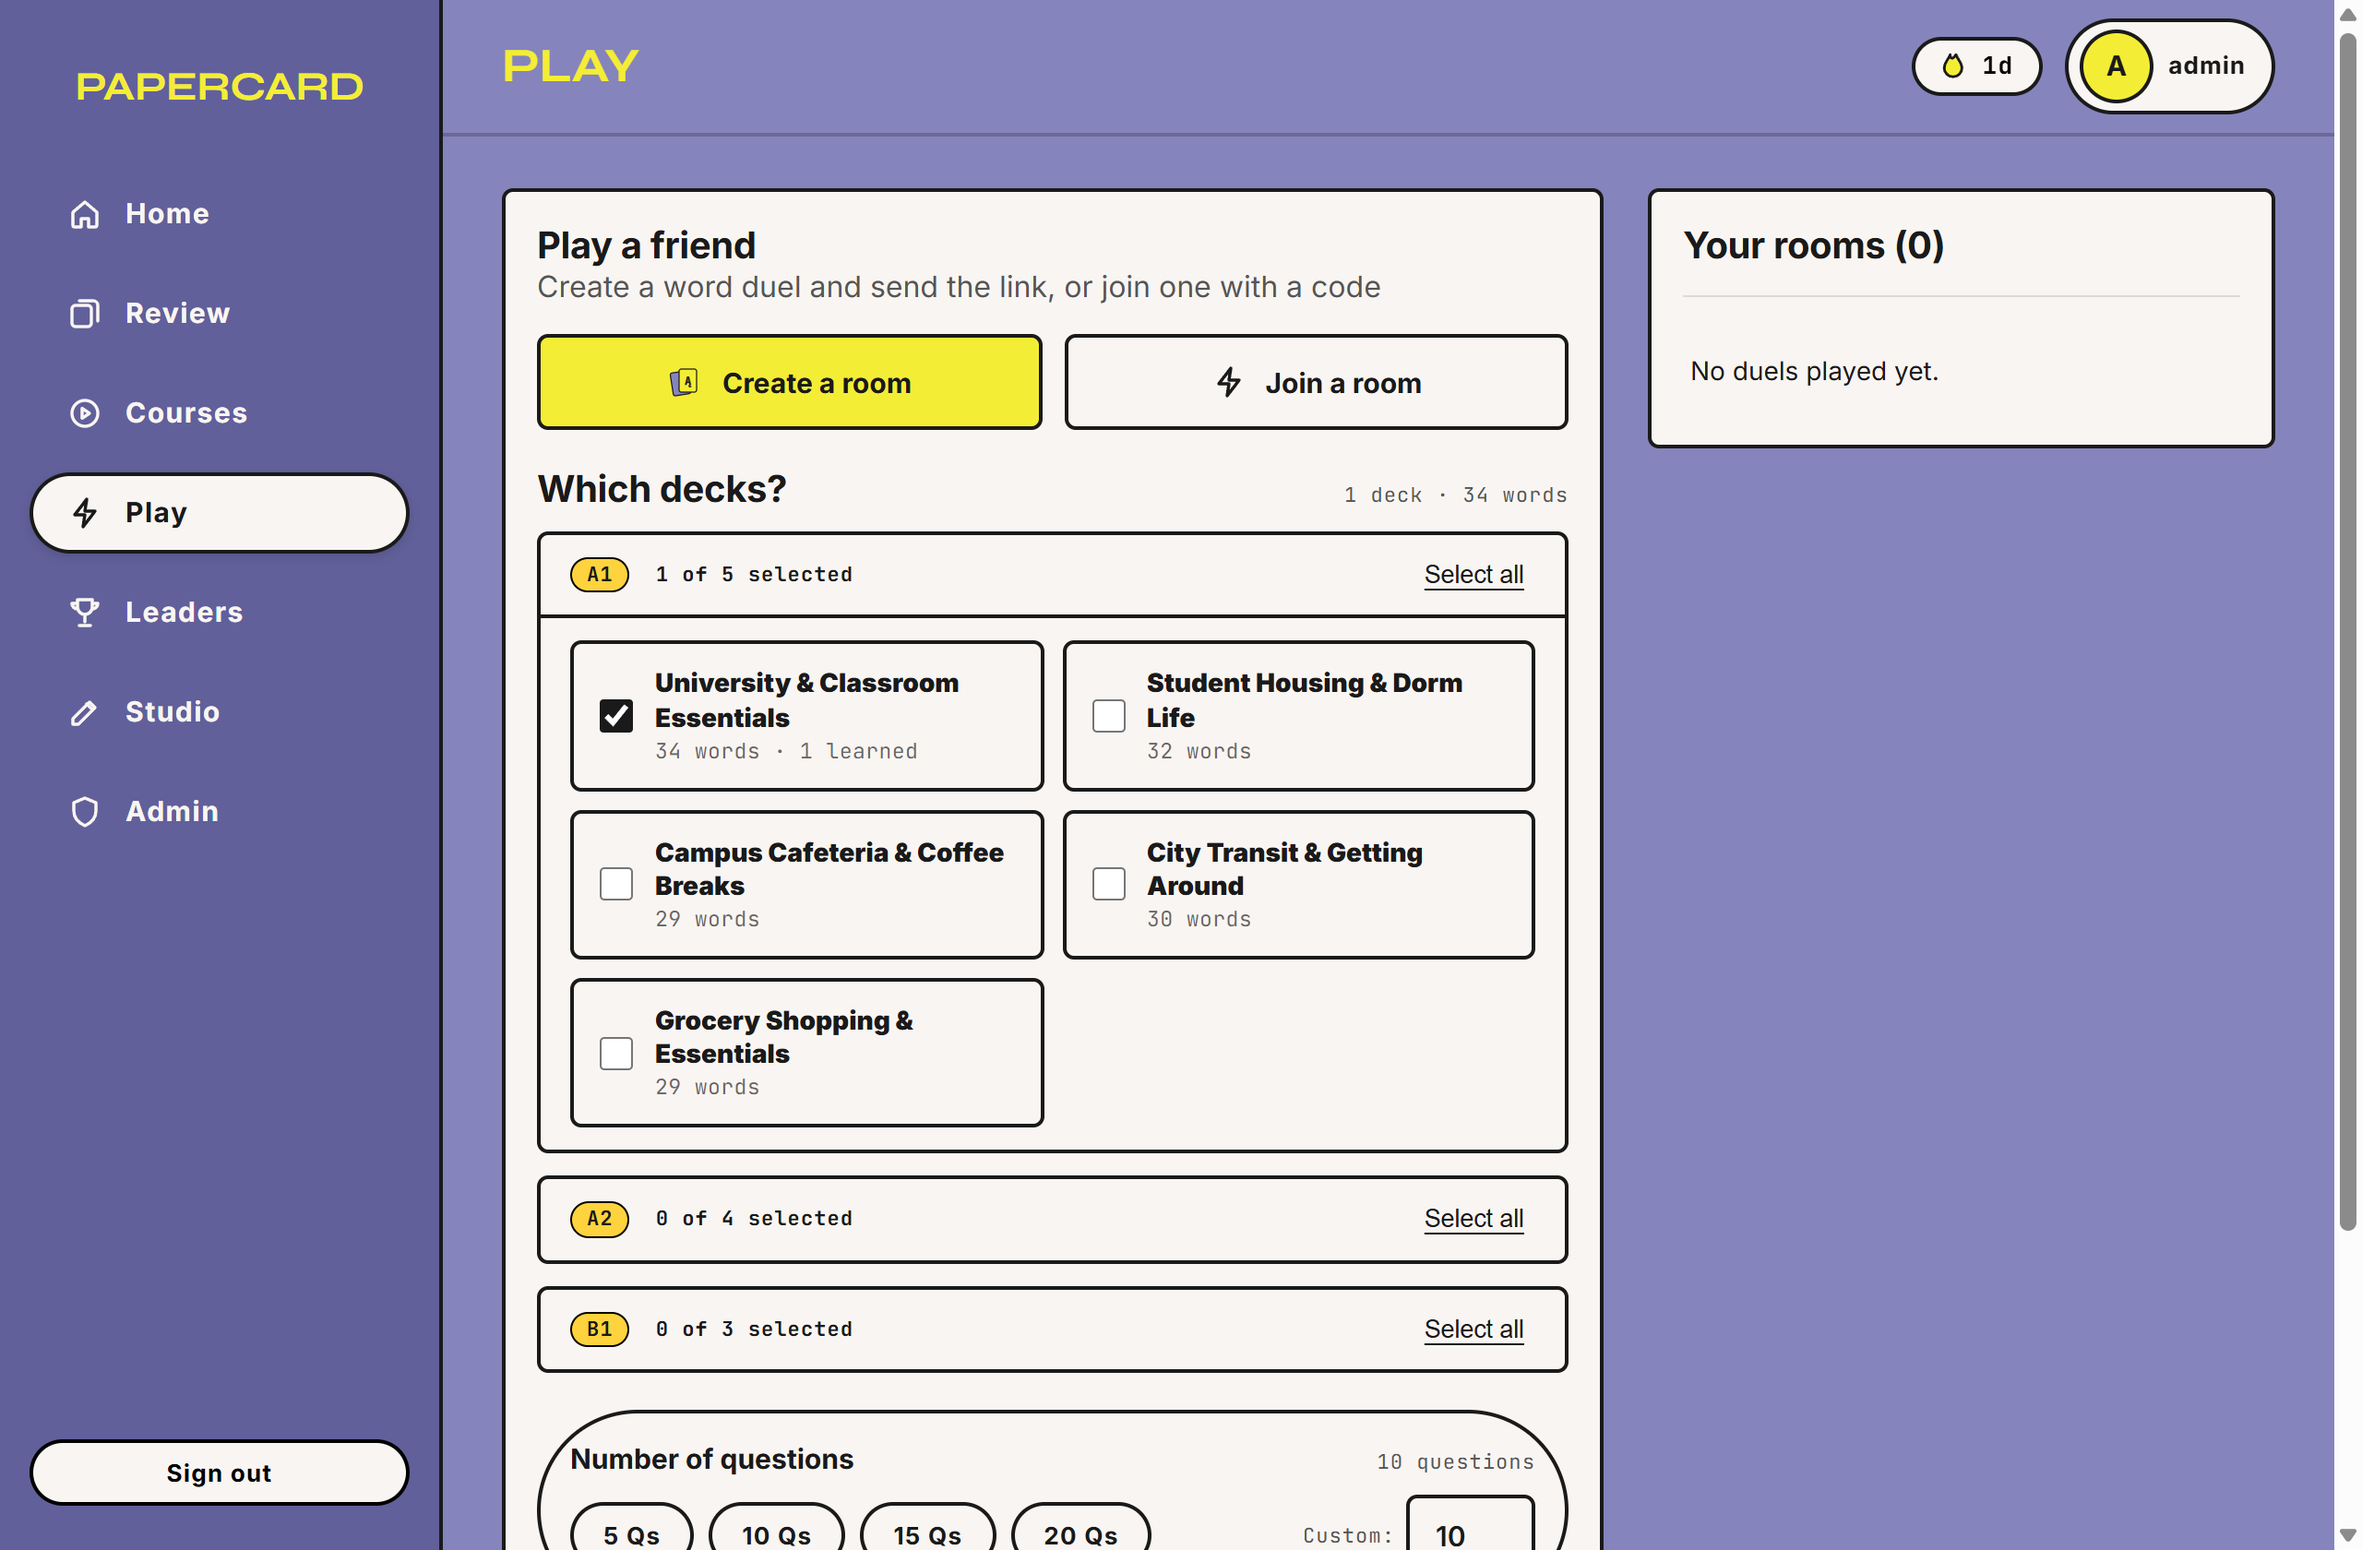
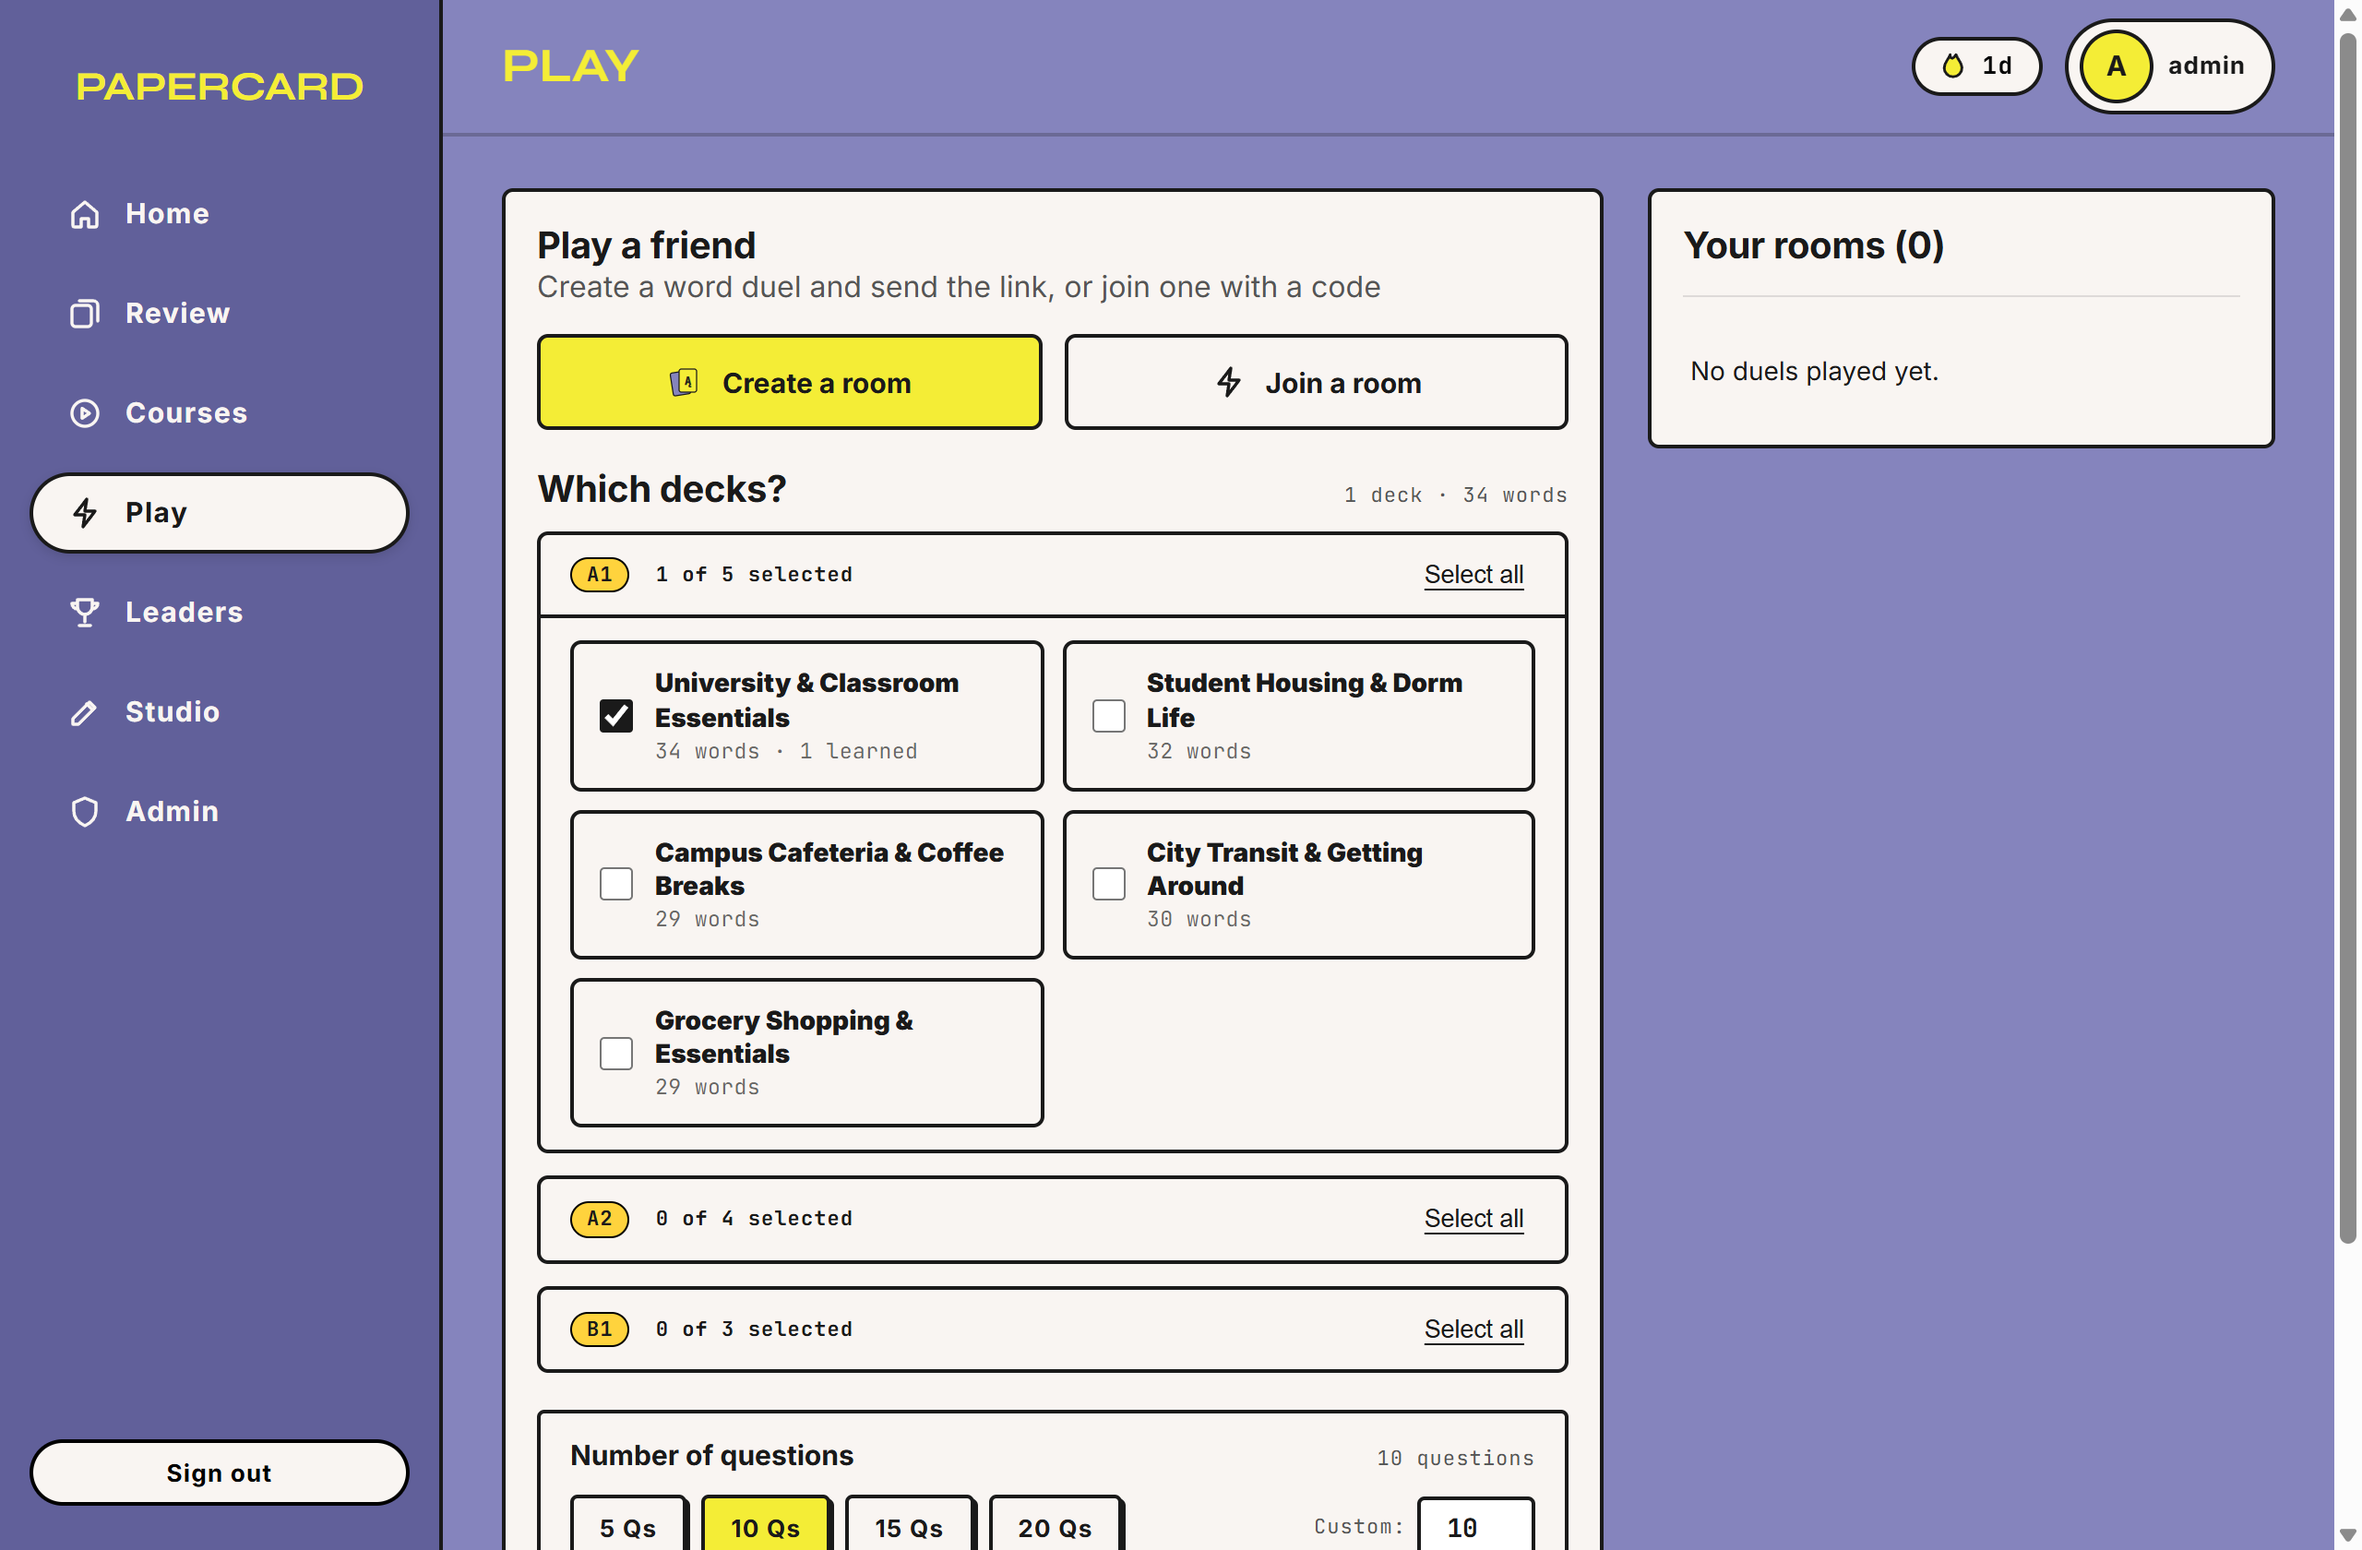
fix(play): change question count pill buttons to crisp tactile rectangles

Changed region(s): [[0.2188, 0.8976, 0.5, 1.0], [0.5625, 0.8976, 0.6562, 1.0], [0.6562, 0.9905, 0.6875, 1.0]]

diff --git a/frontend/src/routes/Play.svelte b/frontend/src/routes/Play.svelte
@@ -239,36 +239,37 @@
           <p id="create-error" class="error">{errorMsg}</p>
         {/if}
 
-        <div class="question-count-picker" style="margin:20px 0 14px;padding:16px;background:var(--color-bone-white);border:2px solid var(--color-ink-black);border-radius:var(--radius-buttons, 6px);">
-          <div class="row spread" style="align-items:baseline;margin-bottom:10px;">
-            <label for="q-count-input" style="font-weight:700;font-family:var(--font-degulardisplay-bold, sans-serif);font-size:15px;margin:0;">
+        <div class="question-count-picker">
+          <div class="q-count-head">
+            <label for="q-count-input" class="q-count-title">
               Number of questions
             </label>
             <span class="muted small mono-tag" id="q-count-tag">
               {questionCount} questions
             </span>
           </div>
-          <div class="row" style="gap:8px;flex-wrap:wrap;align-items:center;">
-            {#each [5, 10, 15, 20] as cnt}
-              <button
-                type="button"
-                class="btn btn-outlined-display small"
-                class:active-count={questionCount === cnt}
-                style="min-width:54px;font-weight:700;{questionCount === cnt ? 'background:var(--color-hi-vis-yellow, #f4ed36);color:#000;border-color:#000;' : ''}"
-                onclick={() => questionCount = cnt}
-              >
-                {cnt} Qs
-              </button>
-            {/each}
-            <div class="row" style="align-items:center;gap:6px;margin-left:auto;">
+          <div class="q-count-body">
+            <div class="q-presets">
+              {#each [5, 10, 15, 20] as cnt}
+                <button
+                  type="button"
+                  class="btn btn-outlined-display small count-chip-btn"
+                  class:active-count={questionCount === cnt}
+                  onclick={() => questionCount = cnt}
+                >
+                  {cnt} Qs
+                </button>
+              {/each}
+            </div>
+            <div class="q-custom-wrap">
               <span class="muted small mono-tag">Custom:</span>
               <input
                 type="number"
                 id="q-count-input"
+                class="q-custom-input"
                 min="4"
                 max="50"
                 bind:value={questionCount}
-                style="width:70px;padding:6px 8px;font-family:var(--font-bergenmonoregular, monospace);font-weight:700;border:2px solid #000;border-radius:4px;background:#fff;"
               />
             </div>
           </div>
@@ -337,3 +338,132 @@
     </aside>
   </div>
 </div>
+
+<style>
+  .question-count-picker {
+    margin: 20px 0 16px;
+    padding: 14px 16px;
+    background: var(--color-bone-white);
+    border: 2px solid var(--color-ink-black);
+    border-radius: 4px;
+    box-sizing: border-box;
+    width: 100%;
+  }
+
+  .q-count-head {
+    display: flex;
+    justify-content: space-between;
+    align-items: baseline;
+    margin-bottom: 12px;
+    flex-wrap: wrap;
+    gap: 8px;
+  }
+
+  .q-count-title {
+    font-weight: 700;
+    font-family: var(--font-degulardisplay-bold, sans-serif);
+    font-size: 15px;
+    margin: 0;
+    color: var(--color-ink-black);
+  }
+
+  .q-count-body {
+    display: flex;
+    flex-wrap: wrap;
+    gap: 12px;
+    align-items: center;
+    justify-content: space-between;
+  }
+
+  .q-presets {
+    display: flex;
+    flex-wrap: wrap;
+    gap: 8px;
+    align-items: center;
+  }
+
+  .count-chip-btn {
+    min-width: 58px;
+    font-weight: 700;
+    padding: 6px 14px !important;
+    font-family: var(--font-degulardisplay-bold), var(--font-degularvariable), sans-serif !important;
+    border: 2px solid var(--color-ink-black) !important;
+    border-radius: 4px !important;
+    background: var(--color-bone-white) !important;
+    color: var(--color-ink-black) !important;
+    cursor: pointer;
+    box-shadow: 2px 2px 0px var(--color-ink-black) !important;
+    transition: background 0.15s ease, transform 0.1s ease, box-shadow 0.1s ease;
+  }
+
+  .count-chip-btn:hover {
+    background: #ffffff !important;
+    transform: translate(-1px, -1px);
+    box-shadow: 3px 3px 0px var(--color-ink-black) !important;
+  }
+
+  .count-chip-btn:active {
+    transform: translate(1px, 1px);
+    box-shadow: 1px 1px 0px var(--color-ink-black) !important;
+  }
+
+  .count-chip-btn.active-count {
+    background: var(--color-hi-vis-yellow, #f4ed36) !important;
+    color: var(--color-ink-black) !important;
+    border-color: var(--color-ink-black) !important;
+    box-shadow: 2px 2px 0px var(--color-ink-black) !important;
+  }
+
+  .q-custom-wrap {
+    display: flex;
+    align-items: center;
+    gap: 6px;
+  }
+
+  .q-custom-input {
+    width: 64px !important;
+    padding: 6px 8px !important;
+    font-family: var(--font-bergenmonoregular, monospace) !important;
+    font-size: 14px !important;
+    font-weight: 700 !important;
+    border: 2px solid var(--color-ink-black) !important;
+    border-radius: 4px !important;
+    background: #ffffff !important;
+    color: var(--color-ink-black) !important;
+    text-align: center;
+  }
+
+  @media (max-width: 600px) {
+    .q-count-body {
+      flex-direction: column;
+      align-items: stretch;
+      gap: 12px;
+    }
+
+    .q-presets {
+      display: grid;
+      grid-template-columns: repeat(4, 1fr);
+      gap: 6px;
+      width: 100%;
+    }
+
+    .count-chip-btn {
+      min-width: 0;
+      padding: 8px 4px;
+      text-align: center;
+      justify-content: center;
+      width: 100%;
+    }
+
+    .q-custom-wrap {
+      justify-content: space-between;
+      width: 100%;
+      padding-top: 4px;
+      border-top: 1px dashed rgba(22, 21, 29, 0.15);
+    }
+
+    .q-custom-input {
+      width: 80px !important;
+    }
+  }
+</style>
